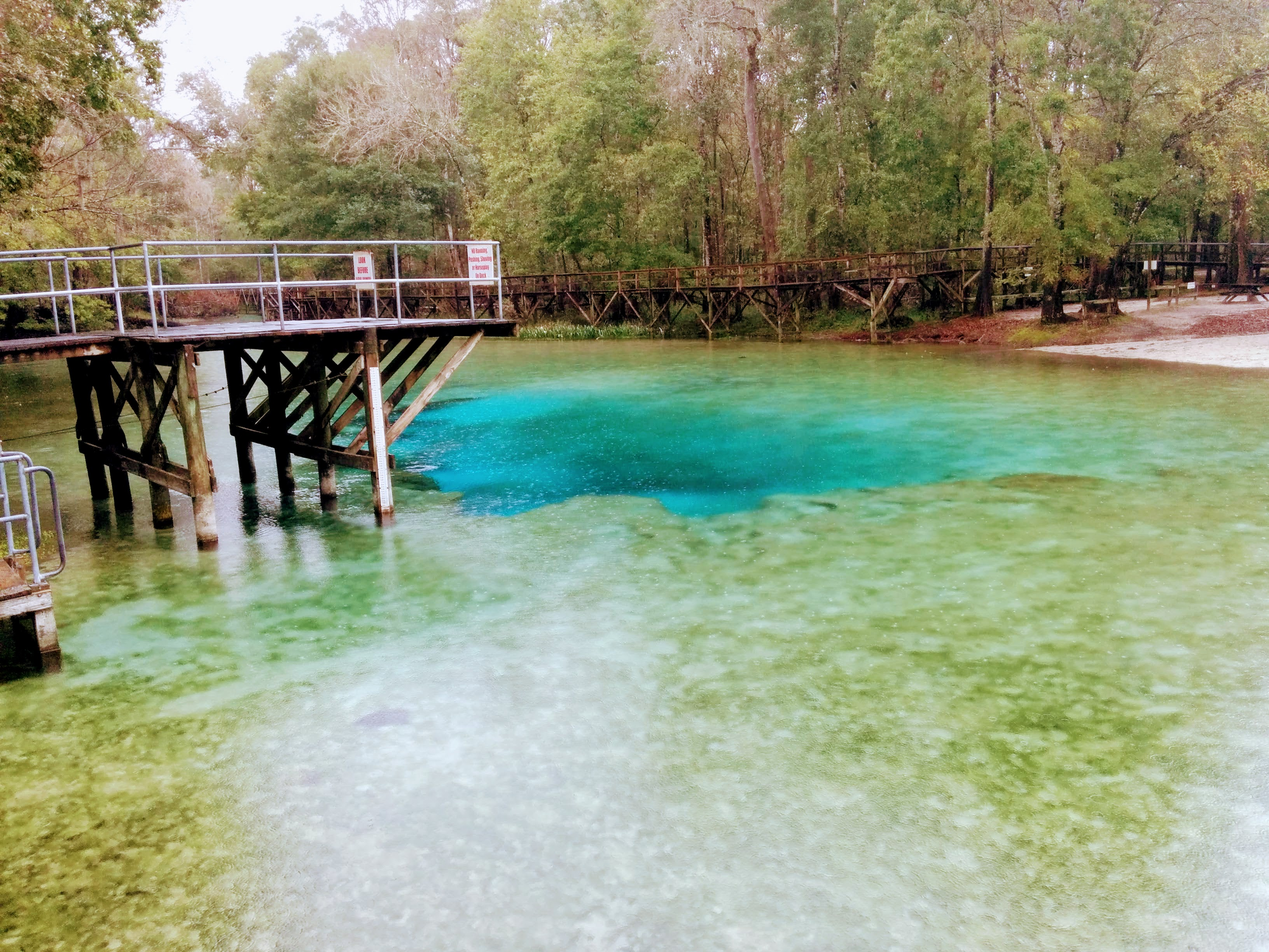
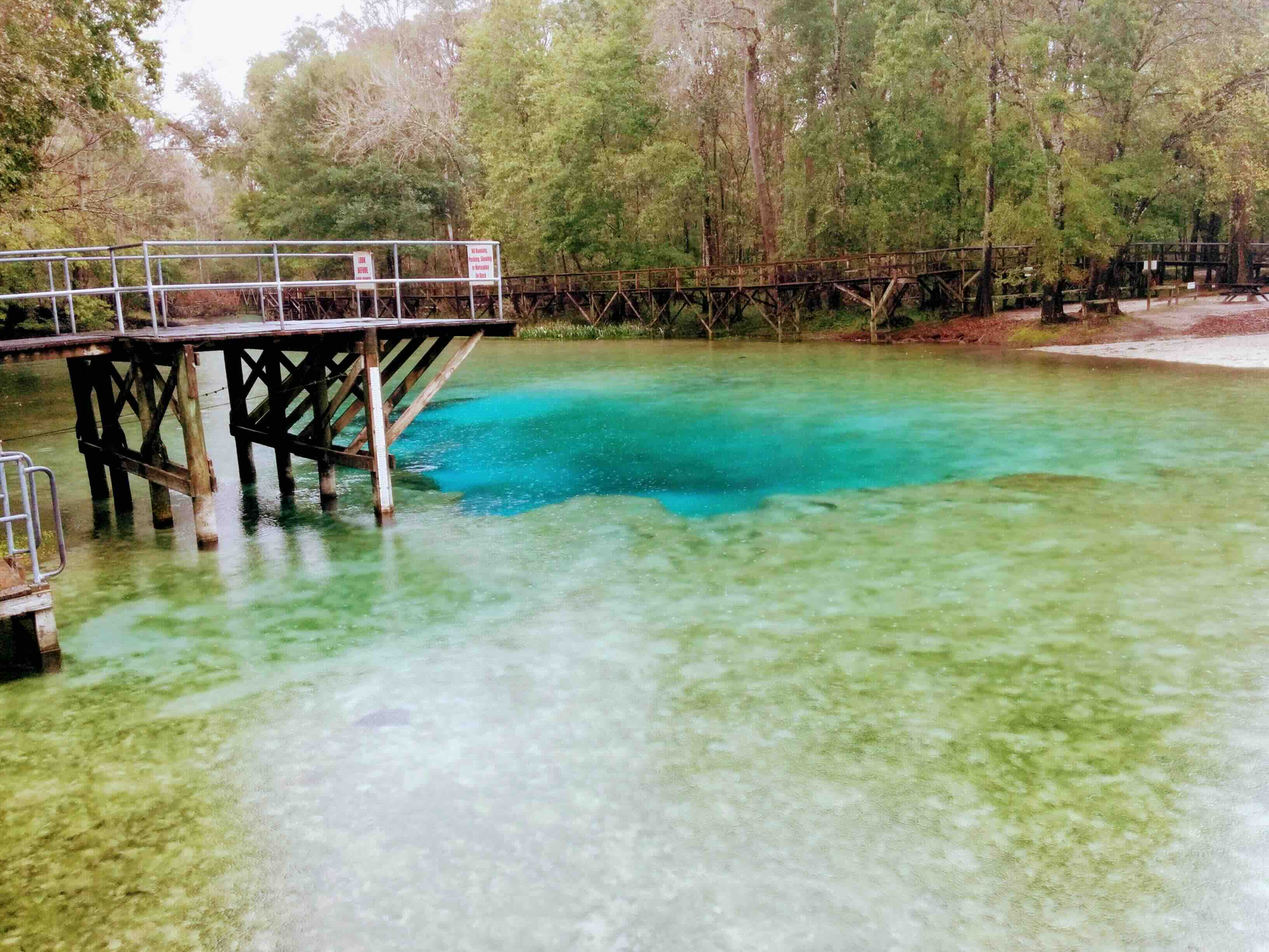
Modified images to smaller jpegs so they show up properly... It seems like there were also a bunch of changes made automatically when I published the site (from raw html to the notation with :::)

diff --git a/_site/work.html b/_site/work.html
@@ -188,7 +188,7 @@ ul.task-list li input[type="checkbox"] {
 
 
 <div class="banner-container">
-<p><img src="images/alaska_sunset2.png" alt="Landscape banner" class="banner-img"></p>
+<p><img src="images/alaska_sunset2.jpg" alt="Landscape banner" class="banner-img"></p>
 </div>
 <section id="under-construction" class="level2 container text-center mx-auto" style="max-width: 800px;">
 <h2 class="anchored" data-anchor-id="under-construction"><strong>Under construction</strong></h2>
@@ -199,36 +199,36 @@ ul.task-list li input[type="checkbox"] {
 <!-- Card 1 -->
 <div class="card bg-light mb-3">
 <div class="card-header text-center fw-bold">
-<i class="fa-solid fa-briefcase" aria-label="briefcase"></i> Projects
+<p><i class="fa-solid fa-briefcase" aria-label="briefcase"></i> Projects</p>
 </div>
 <div class="card-body text-center">
 <p class="card-text">
-Applied research and analytics for environmental and ecological systems.
-</p>
+</p><p>Applied research and analytics for environmental and ecological systems.</p>
+<p></p>
 <p><a class="btn btn-primary">Environmental data dashboards </a> <a href="https://rpubs.com/gklarenberg/1212158" class="btn btn-primary" target="_blank"> Reports in R and Quarto </a></p>
 </div>
 </div>
 <!-- Card 2 -->
 <div class="card bg-light mb-3">
 <div class="card-header text-center fw-bold">
-<i class="fa-solid fa-code" aria-label="code"></i> Repositories
+<p><i class="fa-solid fa-code" aria-label="code"></i> Repositories</p>
 </div>
 <div class="card-body text-center">
 <p class="card-text">
-Open-source tools and reproducible workflows for scientific computing.
-</p>
+</p><p>Open-source tools and reproducible workflows for scientific computing.</p>
+<p></p>
 <p><a class="btn btn-primary"> <i class="fa-brands fa-square-github" aria-label="square-github"></i> GitHub</a> <a class="btn btn-primary"> <i class="fa-brands fa-square-gitlab" aria-label="square-gitlab"></i> GitLab</a> <a class="btn btn-primary"> figshare</a></p>
 </div>
 </div>
 <!-- Card 3 -->
 <div class="card bg-light mb-3">
 <div class="card-header text-center fw-bold">
-<i class="fa-solid fa-book" aria-label="book"></i> Publications
+<p><i class="fa-solid fa-book" aria-label="book"></i> Publications</p>
 </div>
 <div class="card-body text-center">
 <p class="card-text">
-Peer-reviewed research bridging data, ecology, and decision-making.
-</p>
+</p><p>Peer-reviewed research bridging data, ecology, and decision-making.</p>
+<p></p>
 <p><a class="btn btn-primary">Explore</a></p>
 </div>
 </div>

diff --git a/_site/datamanagement.html b/_site/datamanagement.html
@@ -188,7 +188,7 @@ ul.task-list li input[type="checkbox"] {
 
 
 <div class="banner-container">
-<p><img src="images/sweetwater_tree.png" alt="Landscape banner" class="banner-img"></p>
+<p><img src="images/sweetwater_tree.jpg" alt="Landscape banner" class="banner-img"></p>
 </div>
 <div class="container text-center mx-auto" style="max-width: 800px;">
 <p><em>Advising clients on how to collect, organize, and maintain high-quality scientific data — from field sensors to cloud platforms.</em></p>

diff --git a/_site/index.html b/_site/index.html
@@ -172,7 +172,7 @@ ul.task-list li input[type="checkbox"] {
 
 
 <div class="banner-container">
-<p><img src="images/alaska_lake3_effect2.png" alt="Landscape banner" class="banner-img"></p>
+<p><img src="images/alaska_lake3_effect2.jpg" alt="Landscape banner" class="banner-img"></p>
 </div>
 <section class="text-center" style="background-color: #2c3e50; color: white; padding: 30px 0; font-size: 1.5rem; font-weight: bold;">
 <p>Helping organizations track and understand change over time.</p>

diff --git a/_site/modeling.html b/_site/modeling.html
@@ -188,7 +188,7 @@ ul.task-list li input[type="checkbox"] {
 
 
 <div class="banner-container">
-<p><img src="images/Spring2.png" alt="Landscape banner" class="banner-img"></p>
+<p><img src="images/Spring2.jpg" alt="Landscape banner" class="banner-img"></p>
 </div>
 <div class="container text-center mx-auto" style="max-width: 800px;">
 <p>Under construction</p>
